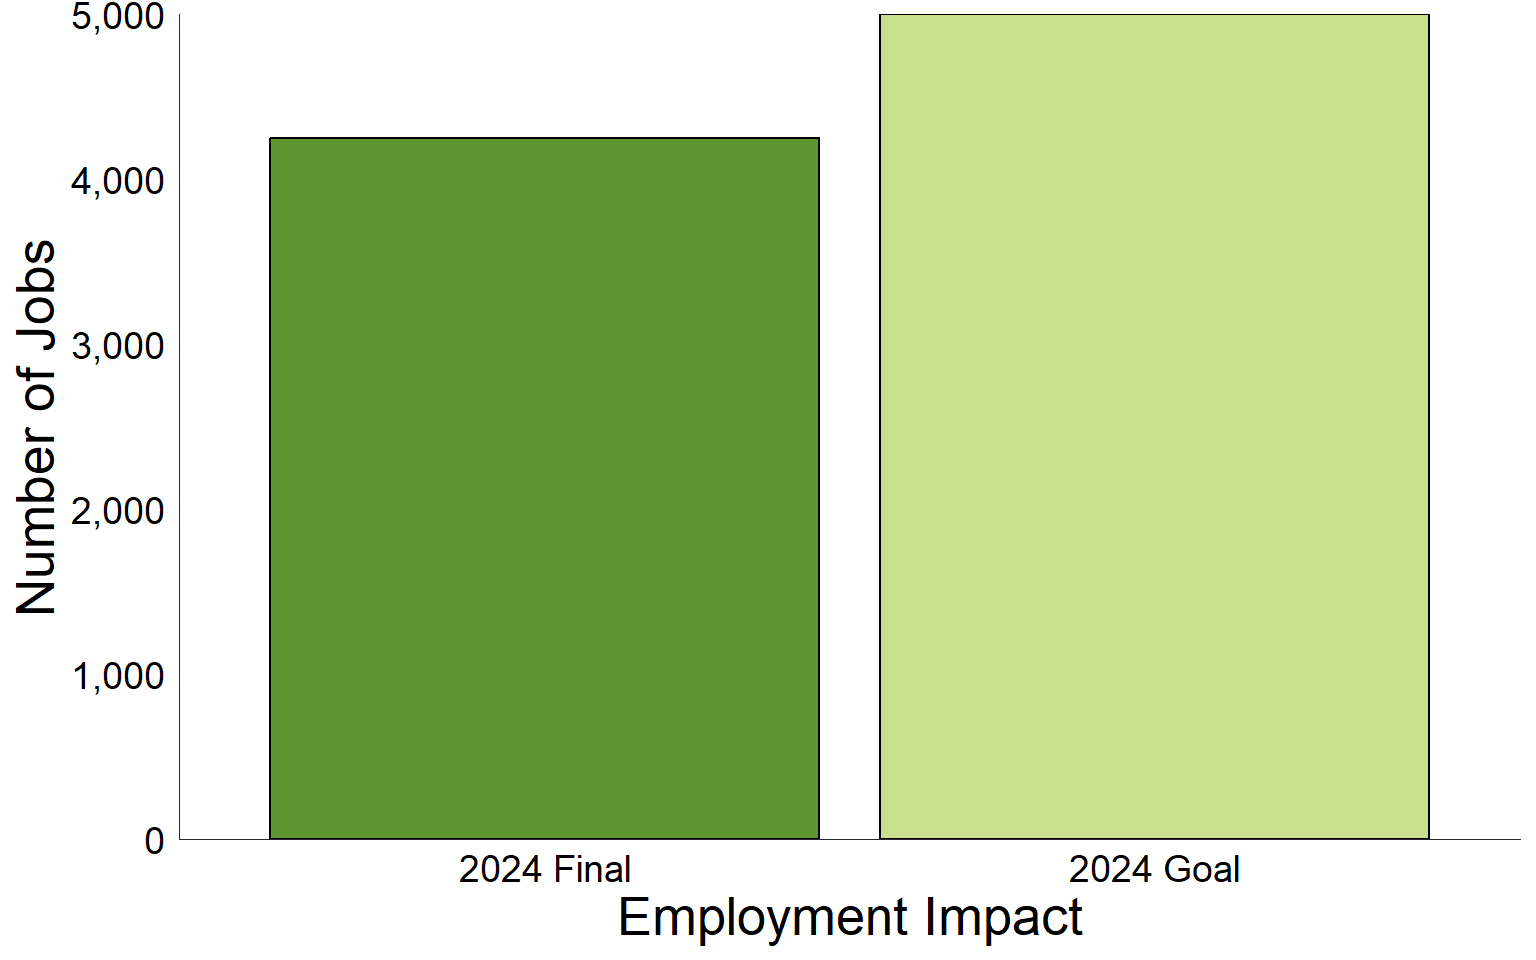
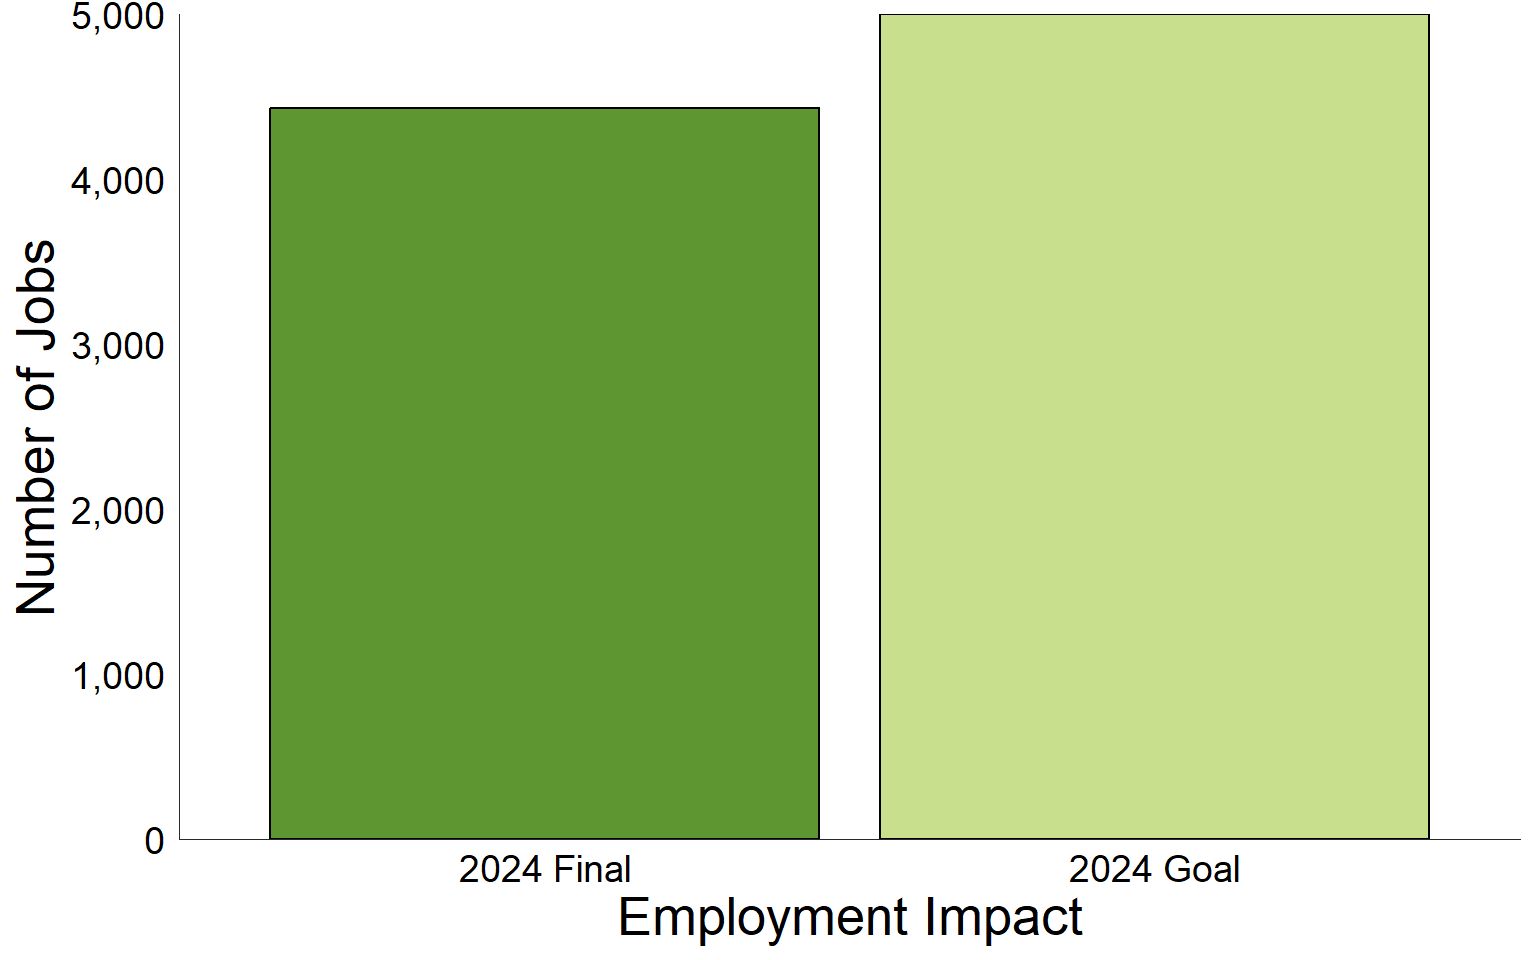
Built site for gh-pages

Changed region(s): [[0.1562, 0.0938, 0.5312, 0.1562]]

diff --git a/index.html b/index.html
@@ -100,7 +100,7 @@ $1.57 Billion
 Total Economic Impact
 </p>
 <p class="value-box-value">
-$1.85 Billion
+$1.9 Billion
 </p>
 </div>
 </div>
@@ -524,7 +524,7 @@ grid-auto-rows: minmax(0, 1fr);">
 Total Capital Investment (Jobs &amp; Employment)
 </p>
 <p class="value-box-value">
-$147.5 Million
+$149.2 Million
 </p>
 </div>
 </div>
@@ -540,7 +540,7 @@ $147.5 Million
 Total Jobs Impact
 </p>
 <p class="value-box-value">
-4,250
+4,433
 </p>
 </div>
 </div>
@@ -556,7 +556,7 @@ Total Jobs Impact
 New Good Jobs Created
 </p>
 <p class="value-box-value">
-1,670
+1,675
 </p>
 </div>
 </div>
@@ -572,7 +572,7 @@ New Good Jobs Created
 Business Development Projects Closed
 </p>
 <p class="value-box-value">
-47
+50
 </p>
 </div>
 </div>
